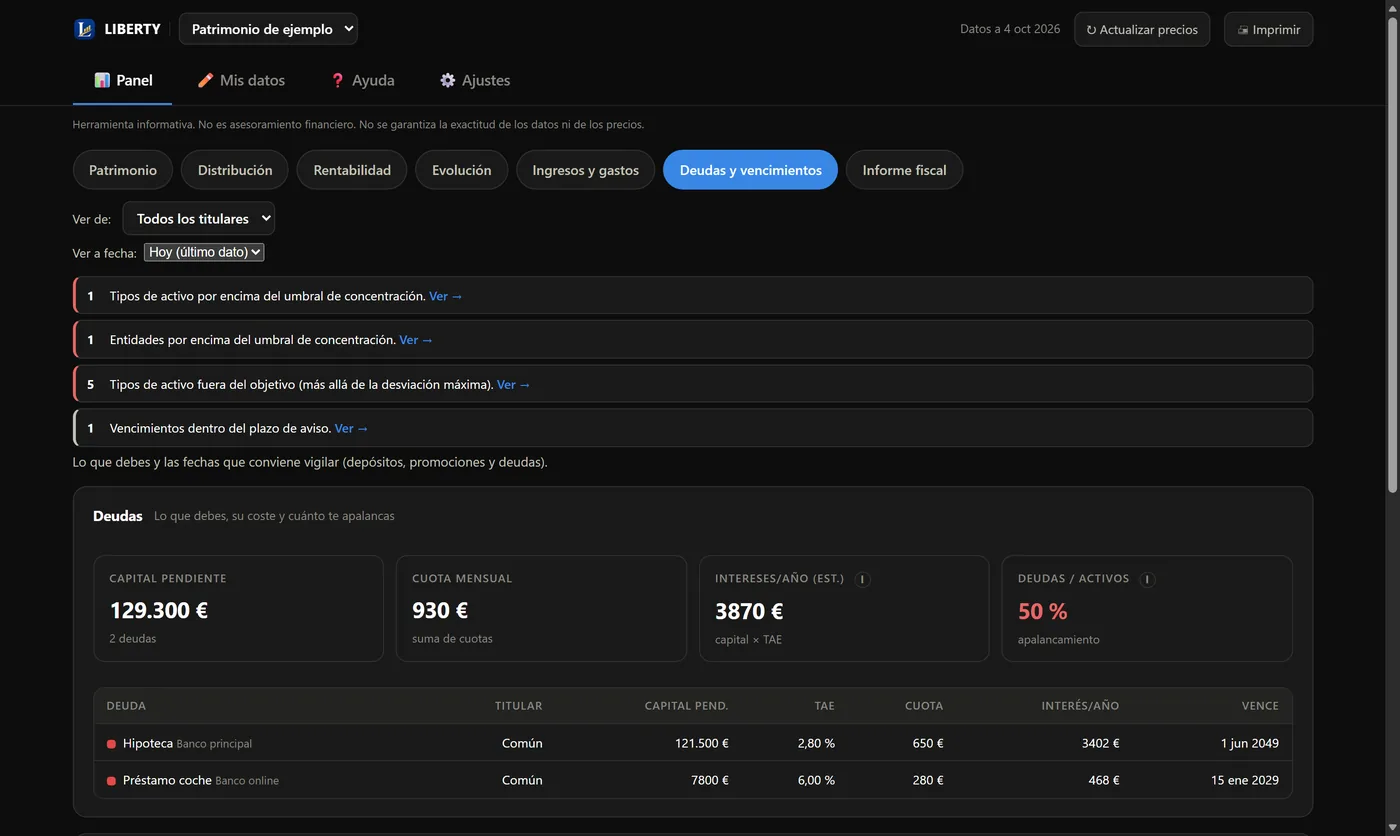
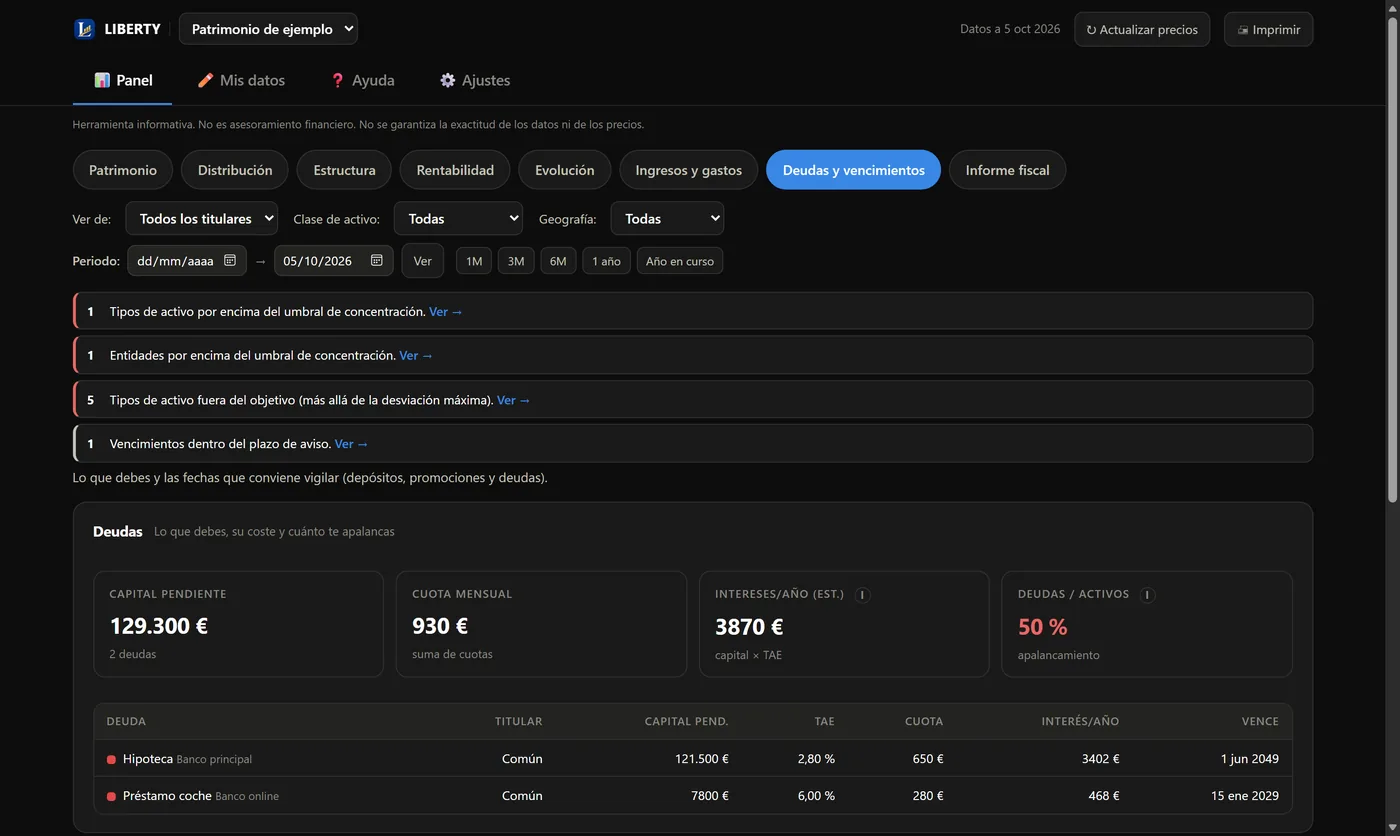
Capturas actualizadas a v1.2.0 (periodo, filtros, nueva vista Estructura) y SHA del exe

diff --git a/index.html b/index.html
@@ -478,6 +478,7 @@
           <div class="slide" role="group" aria-roledescription="diapositiva" aria-label="Panel — Ingresos y gastos"><img src="capturas/panel/Panel_6_IngresosYGastos.webp" alt="Panel — Ingresos y gastos" loading="lazy"></div>
           <div class="slide" role="group" aria-roledescription="diapositiva" aria-label="Panel — Deudas y vencimientos"><img src="capturas/panel/Panel_7_DeudasYVencimientos.webp" alt="Panel — Deudas y vencimientos" loading="lazy"></div>
           <div class="slide" role="group" aria-roledescription="diapositiva" aria-label="Panel — Informe fiscal"><img src="capturas/panel/Panel_8_InformeFiscal.webp" alt="Panel — Informe fiscal" loading="lazy"></div>
+          <div class="slide" role="group" aria-roledescription="diapositiva" aria-label="Panel — Estructura patrimonial (treemap)"><img src="capturas/panel/Panel_9_Estructura.webp" alt="Panel — Estructura patrimonial (treemap)" loading="lazy"></div>
         </div>
         <button class="car-btn car-prev" type="button" data-prev aria-label="Captura anterior">‹</button>
         <button class="car-btn car-next" type="button" data-next aria-label="Captura siguiente">›</button>
@@ -531,7 +532,7 @@
       <summary>Verificar integridad (SHA-256)</summary>
       <p>Comprueba que el archivo descargado es exactamente este, sin manipular. En PowerShell:
       <code>Get-FileHash .\Liberty.exe -Algorithm SHA256</code> y compara con:</p>
-      <code class="hash">1fe1e34dfd37647779ca36b8de2fc71128a875e7694fc3c63f5f649cd45b238d</code>
+      <code class="hash">85b03af9b3d761a0221ffe5c63193effe349f28245c6527d05e05e43286bc452</code>
     </details>
     <p class="ver-versiones"><a href="https://github.com/AlonsoVine/liberty/releases" target="_blank" rel="noopener">Ver todas las versiones y novedades →</a></p>
   </div>
